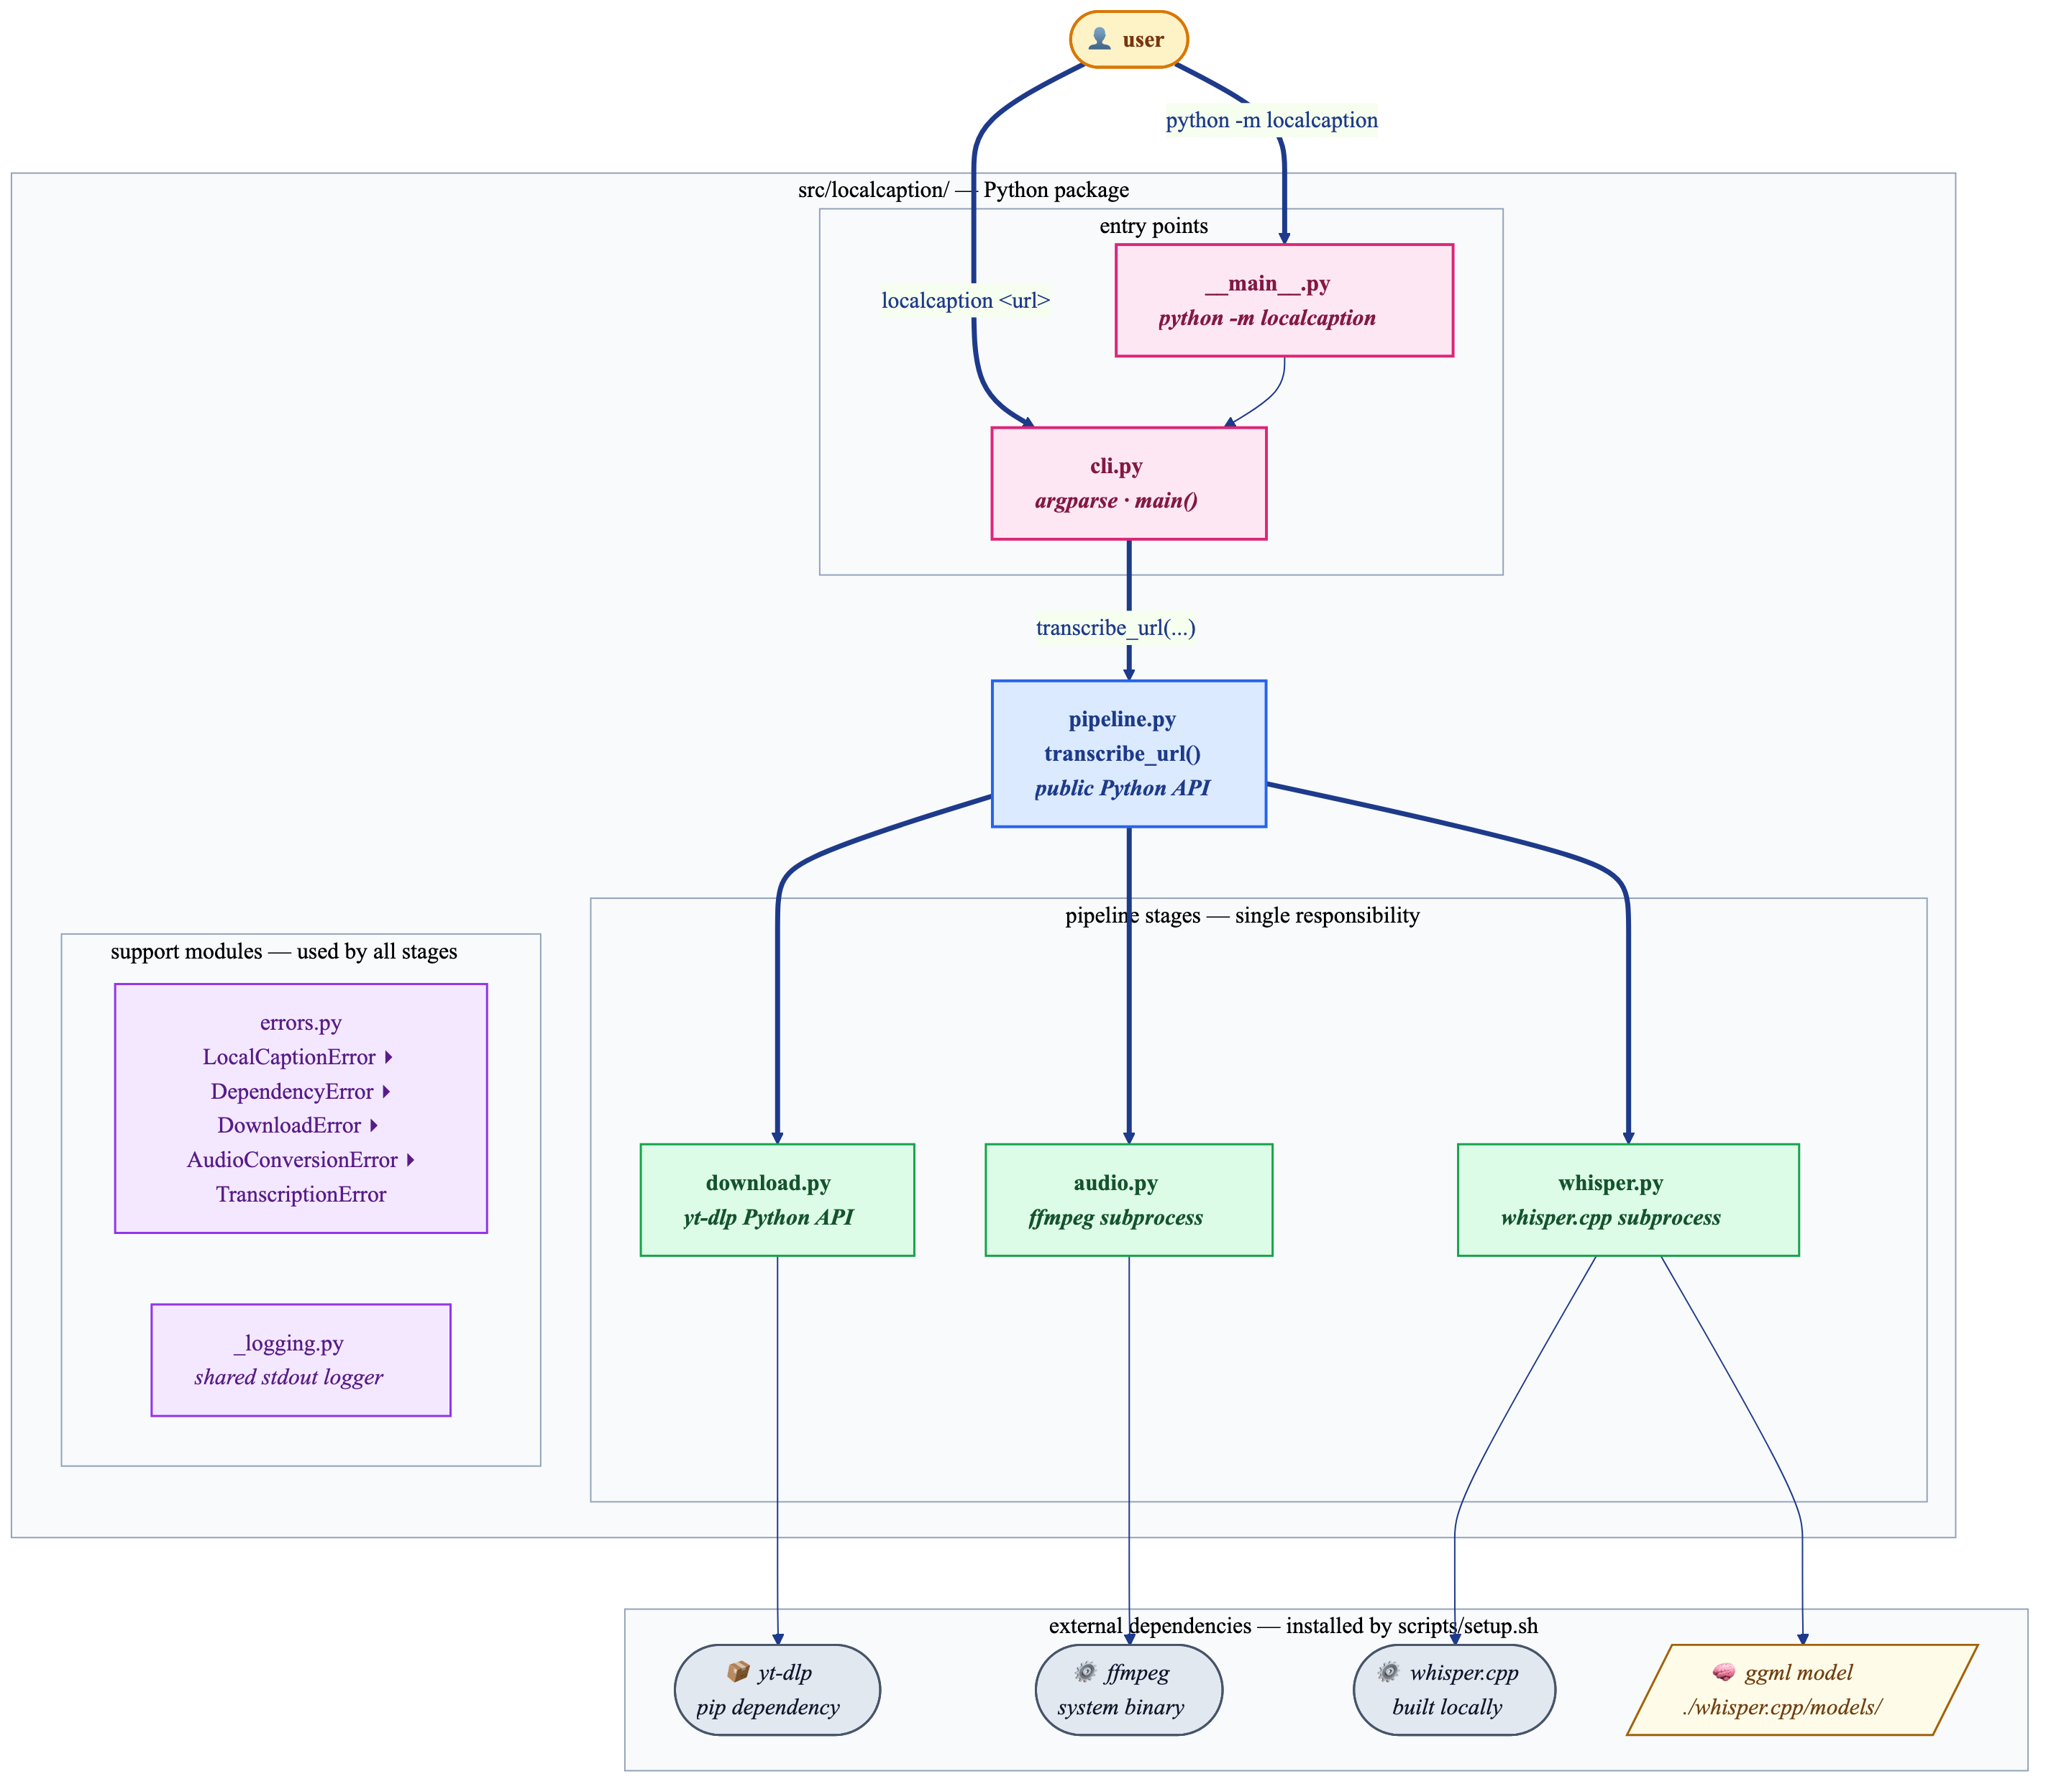
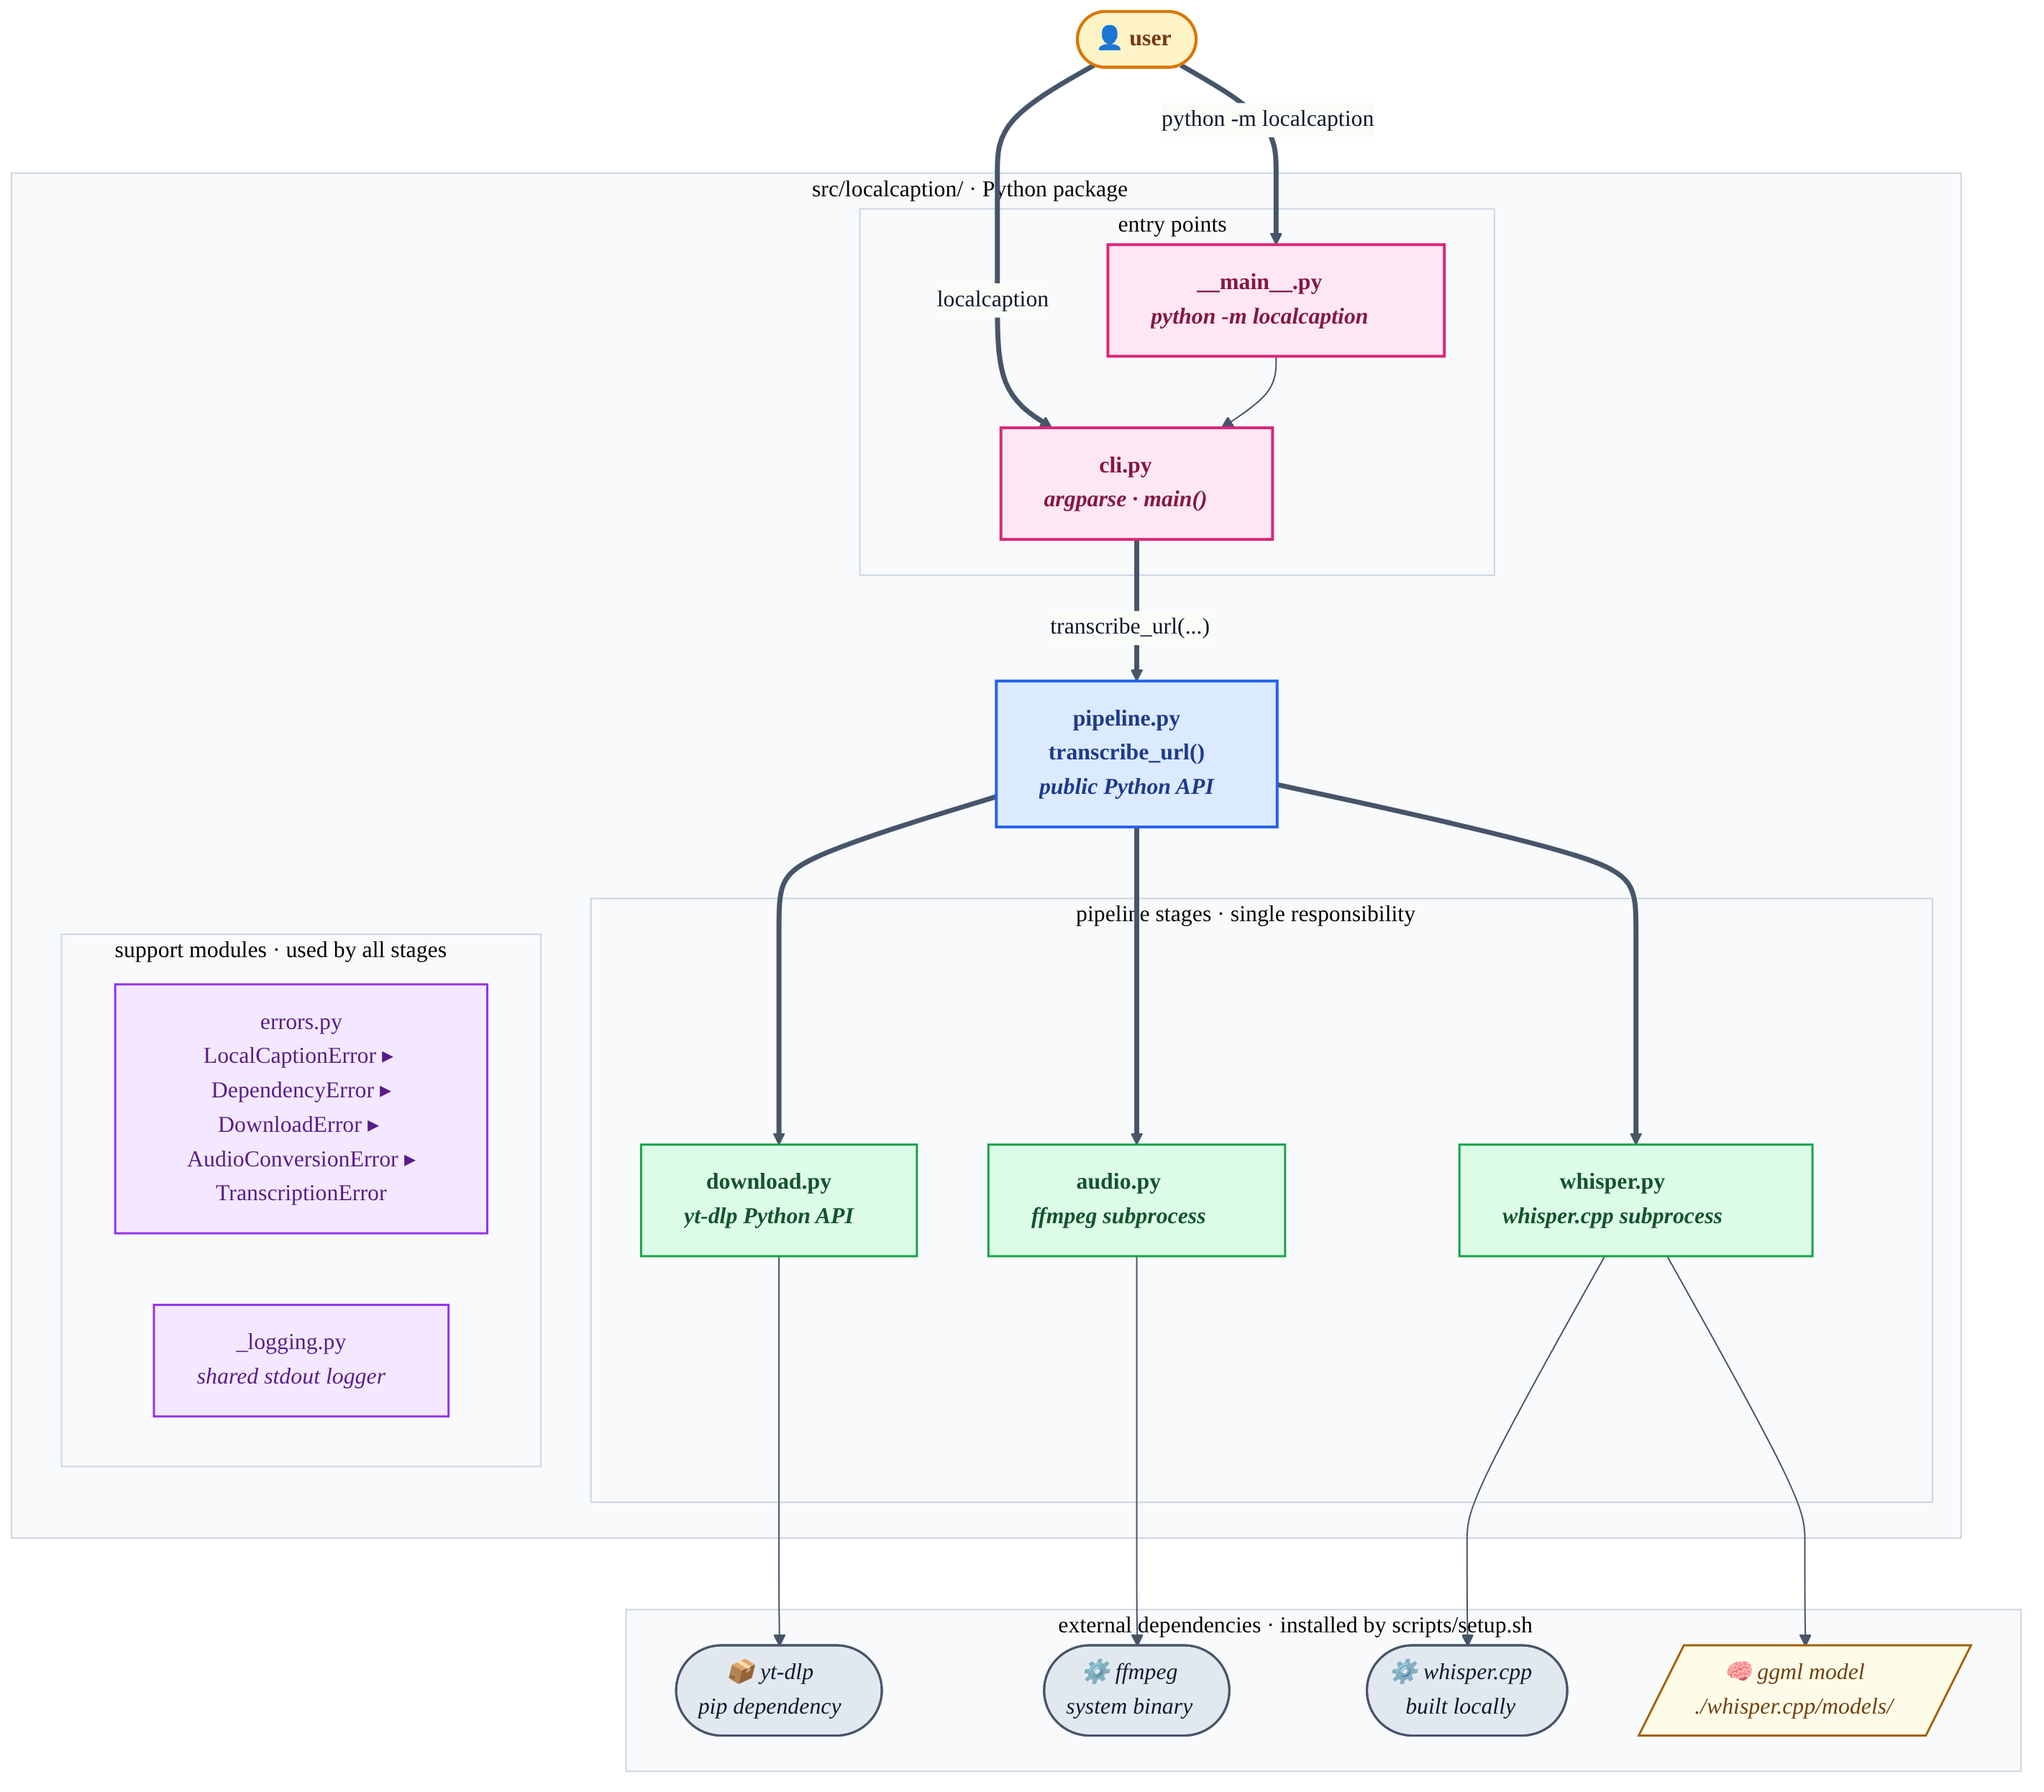
docs: broaden from YouTube-only to yt-dlp's full site support + redesign architecture diagrams
- Update README tagline, description, and examples to reflect support for
  YouTube, Vimeo, Twitch, Twitter/X, and 1000+ other sites via yt-dlp
- Update pyproject.toml description and keywords accordingly
- Remove all em dashes from README (user preference)
- Redesign all three Mermaid architecture diagrams with cleaner styling
  (pipeline, architecture, sequence) and regenerate PNGs
- Update GitHub repository topics: remove 'youtube', add 'video', 'vimeo',
  'twitch', 'privacy'

diff --git a/README.md b/README.md
@@ -1,6 +1,8 @@
 # localcaption
 
-> Paste a YouTube URL, get a transcript. **Fully local, no API keys.**
+> Paste a video URL, get a transcript. **Fully local, no API keys.**
+>
+> Works with YouTube, Vimeo, Twitch, Twitter/X, and [1000+ other sites](https://github.com/yt-dlp/yt-dlp/blob/master/supportedsites.md) via yt-dlp.
 
 <!-- Package: where to get it, what versions, what license -->
 [![PyPI version](https://img.shields.io/pypi/v/localcaption?logo=pypi&logoColor=white&color=%233775A9&cacheSeconds=300)](https://pypi.org/project/localcaption/)
@@ -22,7 +24,7 @@
 
 | Stage | Tool |
 |---|---|
-| Download bestaudio | [`yt-dlp`](https://github.com/yt-dlp/yt-dlp) |
+| Download best audio | [`yt-dlp`](https://github.com/yt-dlp/yt-dlp) (YouTube, Vimeo, Twitch, 1000+ sites) |
 | Re-encode to 16 kHz mono WAV | [`ffmpeg`](https://ffmpeg.org/) |
 | Transcribe locally | [`whisper.cpp`](https://github.com/ggerganov/whisper.cpp) |
 
@@ -52,7 +54,7 @@ pipx install localcaption
 
 The first time you run `localcaption <url>` it will tell you it can't find
 `whisper.cpp`. The fastest way to set it up is to let `localcaption` do it
-itself — clone, build, and download the default model in one shot:
+itself: clone, build, and download the default model in one shot:
 
 ```bash
 localcaption doctor --fix          # ~2 min on an M-series Mac
@@ -67,10 +69,10 @@ diagnostics to confirm everything works. Pick a different model with
 Prefer to do it yourself? Two equivalent options:
 
 ```bash
-# Option A — bootstrap script (also installs pipx + the localcaption package):
+# Option A: bootstrap script (also installs pipx + the localcaption package):
 curl -fsSL https://raw.githubusercontent.com/jatinkrmalik/localcaption/main/scripts/install.sh | bash
 
-# Option B — DIY, anywhere you like:
+# Option B: DIY, anywhere you like:
 git clone https://github.com/ggerganov/whisper.cpp /path/to/whisper.cpp
 cd /path/to/whisper.cpp && cmake -B build && cmake --build build -j --config Release
 bash models/download-ggml-model.sh base.en
@@ -78,7 +80,7 @@ export LOCALCAPTION_WHISPER_DIR=/path/to/whisper.cpp   # add to your shell rc
 ```
 
 > 💡 The `install.sh` bootstrap is just `pipx install localcaption` followed
-> by `localcaption doctor --fix` — same logic, single source of truth.
+> by `localcaption doctor --fix`, same logic, single source of truth.
 > Override the default model with `WHISPER_MODEL=small.en bash install.sh`.
 
 After install, verify everything is wired up:
@@ -91,7 +93,7 @@ localcaption doctor --fix          # diagnostic + auto-repair anything missing
 ### Uninstall
 
 To completely remove `localcaption` and everything it installed (the
-binary, whisper.cpp build, and ggml models — about 200 MB total):
+binary, whisper.cpp build, and ggml models (about 200 MB total):
 
 ```bash
 # pipx + whisper.cpp + models, with confirmation prompts:
@@ -130,7 +132,7 @@ All checks passed. You're good to go: localcaption <url>
 
 If anything is missing, re-run with `--fix` and `localcaption` will install
 the missing system deps (via `brew`/`apt`), clone+build whisper.cpp, and
-download the default model — then re-verify:
+download the default model, then re-verify:
 
 ```bash
 localcaption doctor --fix                      # repair everything
@@ -157,7 +159,11 @@ and editable-installs the package so source edits take effect immediately.
 ### CLI
 
 ```bash
+# YouTube
 localcaption "https://www.youtube.com/watch?v=dQw4w9WgXcQ"
+
+# Vimeo, Twitch, Twitter/X, and 1000+ other sites work too
+localcaption "https://vimeo.com/148751763"
 ```
 
 | flag | default | what it does |
@@ -226,10 +232,10 @@ localcaption --model small.en --auto-download "https://www.youtube.com/..."
 |---|---|---|
 | `tiny.en` | 75 MB | Quick drafts, English only, low-resource environments |
 | `base.en` | 142 MB | Current install default, fast & decent |
-| `small.en` | 466 MB | **Recommended for English** — great accuracy/speed balance |
+| `small.en` | 466 MB | **Recommended for English**, great accuracy/speed balance |
 | `medium.en` | 1.5 GB | High accuracy English, ~3× slower than `small.en` |
 | `large-v3` | 3.0 GB | Best accuracy, multilingual, slow |
-| `large-v3-turbo` | 1.6 GB | Near-large quality at ~half the size — great compromise |
+| `large-v3-turbo` | 1.6 GB | Near-large quality at ~half the size, great compromise |
 
 Models without the `.en` suffix are multilingual (required for non-English audio).
 
@@ -290,9 +296,9 @@ order-of-magnitude reference, not a competitive benchmark.
 
 | Video | Length | Wall-clock | Speed vs. realtime | Hardware |
 |---|---|---|---|---|
-| [TED-Ed — *How does your immune system work?*](https://www.youtube.com/watch?v=PSRJfaAYkW4) | 5:23   | **7.5 s**  | ~43× | MacBook Pro M4 Pro, 48 GB |
-| [3Blue1Brown — *But what is a Neural Network?*](https://www.youtube.com/watch?v=aircAruvnKk) | 18:40  | **19.3 s** | ~58× | MacBook Pro M4 Pro, 48 GB |
-| [Hasan Minhaj × Neil deGrasse Tyson — *Why AI is Overrated*](https://www.youtube.com/watch?v=BYizgB2FcAQ) | 54:17 | **49.8 s** | ~65× | MacBook Pro M4 Pro, 48 GB |
+| [TED-Ed: *How does your immune system work?*](https://www.youtube.com/watch?v=PSRJfaAYkW4) | 5:23   | **7.5 s**  | ~43× | MacBook Pro M4 Pro, 48 GB |
+| [3Blue1Brown: *But what is a Neural Network?*](https://www.youtube.com/watch?v=aircAruvnKk) | 18:40  | **19.3 s** | ~58× | MacBook Pro M4 Pro, 48 GB |
+| [Hasan Minhaj × Neil deGrasse Tyson: *Why AI is Overrated*](https://www.youtube.com/watch?v=BYizgB2FcAQ) | 54:17 | **49.8 s** | ~65× | MacBook Pro M4 Pro, 48 GB |
 
 <details>
 <summary>Reproduce</summary>
@@ -320,11 +326,12 @@ hardware in the **Hardware** column.
 
 - Bigger models = better quality but slower. `base.en` is a good default;
   try `small.en` if you have the patience and `tiny.en` for instant results.
-- Apple Silicon: whisper.cpp's CMake build uses Metal automatically — you'll
+- Apple Silicon: whisper.cpp's CMake build uses Metal automatically, you'll
   see `ggml_metal_init` in the logs.
-- The pipeline accepts any URL `yt-dlp` supports (Vimeo, Twitch VODs, podcast
-  pages, etc.), not just YouTube.
-- If you hit `HTTP 403 Forbidden`, your `yt-dlp` is probably stale —
+- The pipeline accepts any URL `yt-dlp` supports (Vimeo, Twitch VODs, Twitter/X,
+  podcast pages, and [1000+ more](https://github.com/yt-dlp/yt-dlp/blob/master/supportedsites.md)),
+  not just YouTube.
+- If you hit `HTTP 403 Forbidden`, your `yt-dlp` is probably stale.
   `pip install -U yt-dlp` usually fixes it.
 
 ## Roadmap
@@ -348,7 +355,7 @@ criteria, and discussion):
 | ~~[#1](https://github.com/jatinkrmalik/localcaption/issues/1)~~ | ~~Switch default model from `base.en` to `small.en`~~ | _superseded by #7_ |
 
 **Have an idea?** Open a
-[feature request](https://github.com/jatinkrmalik/localcaption/issues/new/choose) —
+[feature request](https://github.com/jatinkrmalik/localcaption/issues/new/choose),
 or jump into [Discussions](https://github.com/jatinkrmalik/localcaption/discussions)
 if you want to chat about it first.
 
@@ -356,16 +363,16 @@ if you want to chat about it first.
 
 `localcaption` deliberately stays tiny. If you want more, check out:
 
-- [`whishper`](https://github.com/pluja/whishper) — full web UI for local
+- [`whishper`](https://github.com/pluja/whishper): full web UI for local
   transcription with translation and editing.
-- [`transcribe-anything`](https://github.com/zackees/transcribe-anything) —
+- [`transcribe-anything`](https://github.com/zackees/transcribe-anything):
   multi-backend, Mac-arm optimised, supports URLs.
-- [`WhisperX`](https://github.com/m-bain/whisperX) — word-level timestamps and
+- [`WhisperX`](https://github.com/m-bain/whisperX): word-level timestamps and
   diarisation on top of openai-whisper.
 
 ## Contributing
 
-Pull requests welcome — see [CONTRIBUTING.md](CONTRIBUTING.md). By
+Pull requests welcome! See [CONTRIBUTING.md](CONTRIBUTING.md). By
 participating you agree to abide by our
 [Code of Conduct](CODE_OF_CONDUCT.md).
 